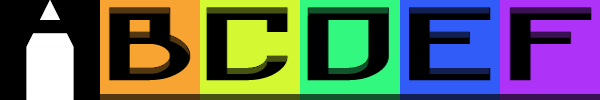
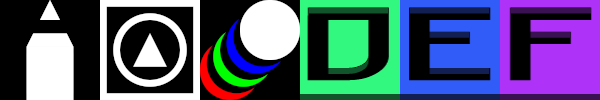
[Sandbox] Add color morph and shape morph
Two new options have been added to the toolbar. Shape Morph functions exactly
like how it does in Sato Shapes; by pressing Cross, it will cycle the shape type
of every shape currently placed on the grid.

Color Morph works very similarly, except instead of cycling shape type, it
cycles the color value (except in the case of erase colors, which it will
ignore and specifically NOT set a shape's color as).

Changed region(s): [[0.15, 0.0, 0.51, 1.0]]

diff --git a/src/main.cpp b/src/main.cpp
@@ -1317,6 +1317,25 @@ shape modify_current_shape(char opcode, shape current_shape, bool is_player = fa
     return modified_shape;
 }
 
+void morph_shapes() {
+    for (int i = 0; i < previous_shapes.size(); i++) {
+        int new_type = (previous_shapes[i].type + 1) % 3;
+        previous_shapes[i].type = new_type;
+    }
+    return;
+}
+
+void morph_colors() {
+    for (int i = 0; i < previous_shapes.size(); i++) {
+        // skip any shapes with the erase color
+        if (previous_shapes[i].color == 16) {continue;}
+        
+        int new_color = (previous_shapes[i].color + 1) % 16;
+        previous_shapes[i].color = new_color;
+    }
+    return;
+}
+
 bool check_available_sequence(int beat_side) {
     // returns true if the current sequence op is blank, false if it isn't
     // this ensures that both a sequence can't be overwritten and that only
@@ -1874,6 +1893,22 @@ int main(int argc, char *argv[]) {
                                             if (active_shape.color < 0) {active_shape.color = 16;}
                                             break;
                                         
+                                        default: break;
+                                    }
+                                    break;
+                                
+                                case CROSS:
+                                    switch (sandbox_option_selected) {
+                                        case 1:
+                                            Mix_PlayChannel(0, snd_xplode, 0);
+                                            morph_shapes();
+                                            break;
+                                            
+                                        case 2:
+                                            Mix_PlayChannel(0, snd_xplode, 0);
+                                            morph_colors();
+                                            break;
+                                            
                                         default: break;
                                     }
                                     break;

diff --git a/src/graphics.cpp b/src/graphics.cpp
@@ -141,7 +141,9 @@ int option_count = std::size(option_items);
 // similar data for the sandbox menu
 // TODO: split off this (and other sandbox functions) into their own file
 const char* sandbox_items[] = {
-    "Change Color"
+    "Change Color",
+    "Shape Morph",
+    "Color Morph"
 };
 
 int sandbox_item_count = std::size(sandbox_items);
